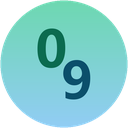
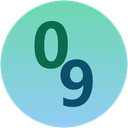
feat: 1.3.9 图标数字再放大 20%

Changed region(s): [[0.25, 0.1562, 0.75, 0.8438]]

diff --git a/src/common/store.js b/src/common/store.js
@@ -18,7 +18,7 @@ const RECORD_FILE = 'internal://files/taptally-records.txt'
 export const MAX_RECORDS = 5
 
 // 版本号（页面里显示，用来确认手环上跑的到底是哪一版）
-export const APP_VERSION = '1.3.8'
+export const APP_VERSION = '1.3.9'
 
 // 内存缓存
 let scoreCache = null // { t, b }

diff --git a/publish/gen_assets.py b/publish/gen_assets.py
@@ -49,7 +49,7 @@ def vgrad_circle(size, c_top, c_bot):
     return base.resize((size, size), Image.BILINEAR)
 
 
-def make_logo(size, ss=4, digit_fs=0.400, stag=0.100, overlap=0.200):
+def make_logo(size, ss=4, digit_fs=0.480, stag=0.100, overlap=0.200):
     """圆形图标：上绿下蓝竖向渐变（无分隔线）。
 
     数字布局按用户给的规则：

diff --git a/docs/CHANGELOG.md b/docs/CHANGELOG.md
@@ -92,3 +92,7 @@
 
 - 图标数字按指定比例排布：**左右错开 20%**（中心水平相距 0.20×边长）、**上下重叠 20%**（字框竖直重叠 20% 字高）
 - 字高改为 PIL 实测，换字号/尺寸不会错位；渐变底与 0.40S 字号不变
+
+## 1.3.9（versionCode 15）
+
+- 图标数字字号再放大 20%（0.40S → **0.48S**），错开 20% / 重叠 20% 的布局比例不变
